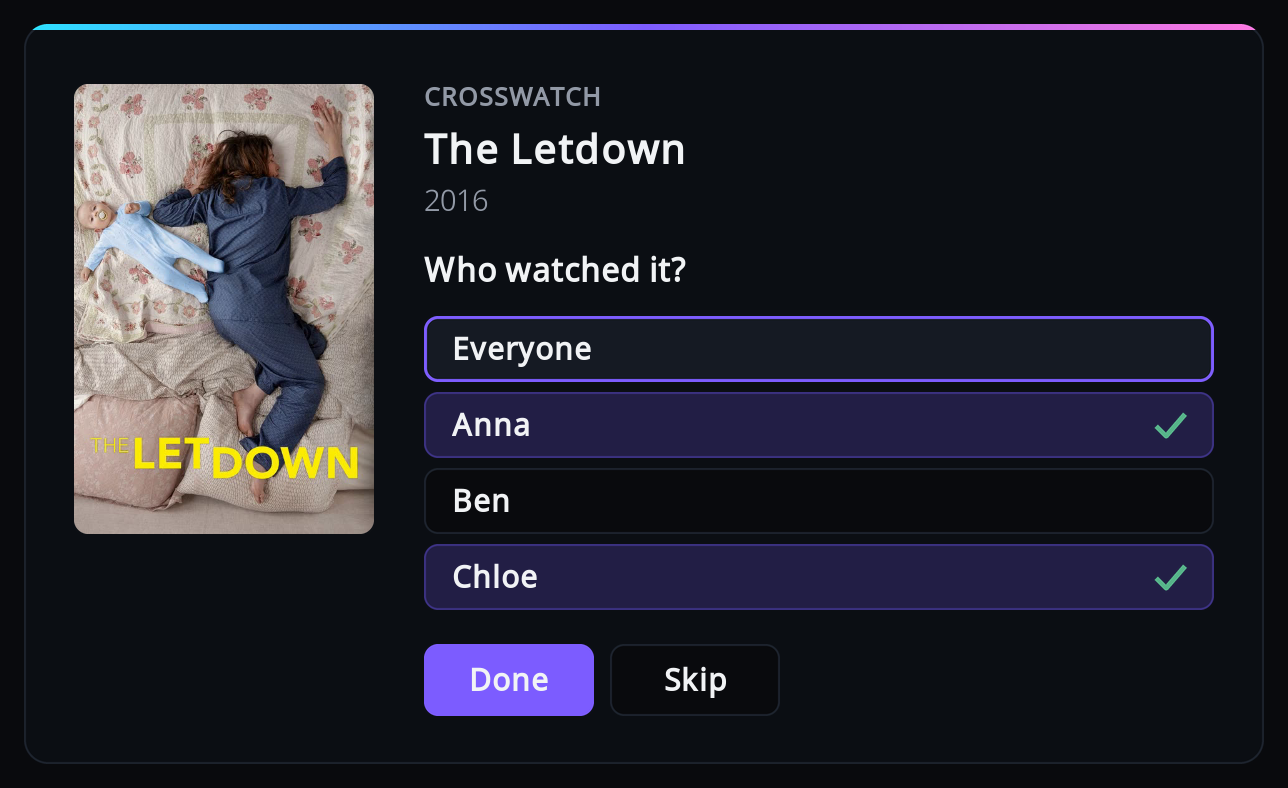
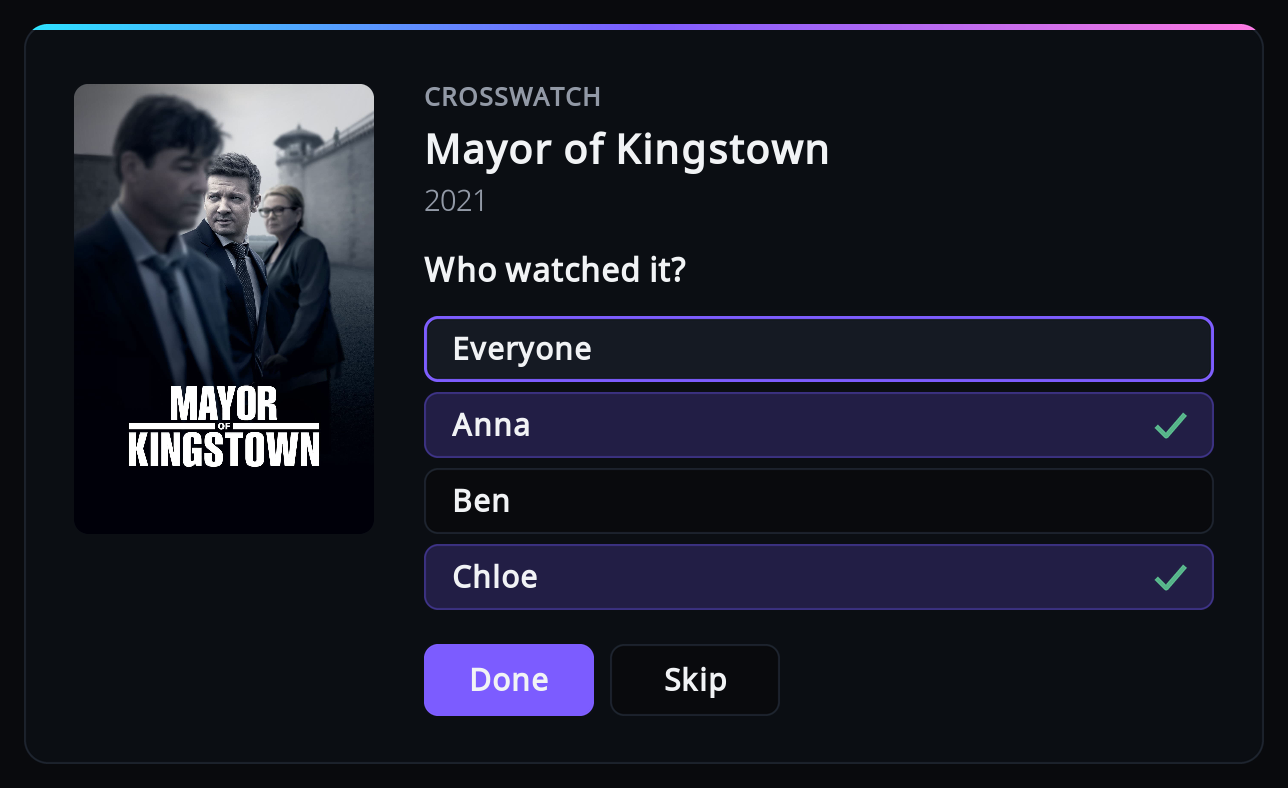
Describe the new Remembered answers screen and recapture it
The README covers the list, search, the viewer filter, Forget in the
who-watched window and Forget all or Forget N shown. The search box
sets its own alignment: a skin's default for edit controls otherwise
applies to the window. Screenshots are recaptured.

Changed region(s): [[0.0311, 0.0914, 0.6522, 0.7005], [0.3416, 0.2437, 0.3727, 0.2741]]

diff --git a/README.md b/README.md
@@ -238,12 +238,32 @@ whitelist.
 ### Remembered answers
 
 The add-on settings have a Remembered answers entry under Viewers, next to Configure
-viewers and playlists. It lists every show with a remembered answer and who it is for, with
-Change and Forget (asks again next episode). Change opens the same who-watched window with
-the current answer ticked, without the countdown, and it does not close when playback starts.
-Done with nobody ticked forgets the answer, like Forget; Skip or Back leaves the answer
-unchanged. Forget all remembered answers, at the bottom, clears everything after a
-confirmation; changes apply from the next playback, no restart needed.
+viewers and playlists. It opens a CrossWatch window listing every show with a remembered
+answer. Each row shows the show's poster and who the answer is for, or "will ask again" when
+none of its viewers is configured any more. A tag appears where one applies:
+
+- "covered by playlist": a playlist decides this show, so the answer is not used for now.
+- "not in library": the show is no longer in your Kodi library.
+- "not stable": the answer was stored against Kodi's database id, and that id now points at a
+  different show.
+
+The search box at the top narrows the list: press OK on it and type with Kodi's keyboard. The
+list narrows as you type and matches show titles and viewer names. The Viewer button next to
+it cycles with OK through All, each configured viewer, and "will ask again" (shows nobody is
+remembered for). Search and viewer combine. A count shows how many shows are listed ("12
+shows", or "3 of 12" when the list is narrowed).
+
+OK on a show opens the who-watched window with the current answer ticked and no countdown,
+plus a Forget button. Done saves the new answer. Forget, or Done with nobody ticked, forgets
+the answer so the show is asked about again after its next episode. Skip or Back leaves the
+answer unchanged. A show marked "not stable" can only be forgotten, so OK on it asks for
+confirmation instead.
+
+The button below the list reads "Forget all", or "Forget N shown" while a search or viewer
+narrows the list. It forgets exactly the shows listed, after a Yes/No confirmation (No is
+preselected). After each change the list comes back with the same search, viewer and
+position; when nothing is left the screen closes with a short notice. Changes apply from the
+next playback, no restart needed.
 
 Playlist membership is checked first, so it overrides a remembered answer to the prompt. The
 Remembered answers screen marks such a show "covered by playlist": its answer is kept, and
